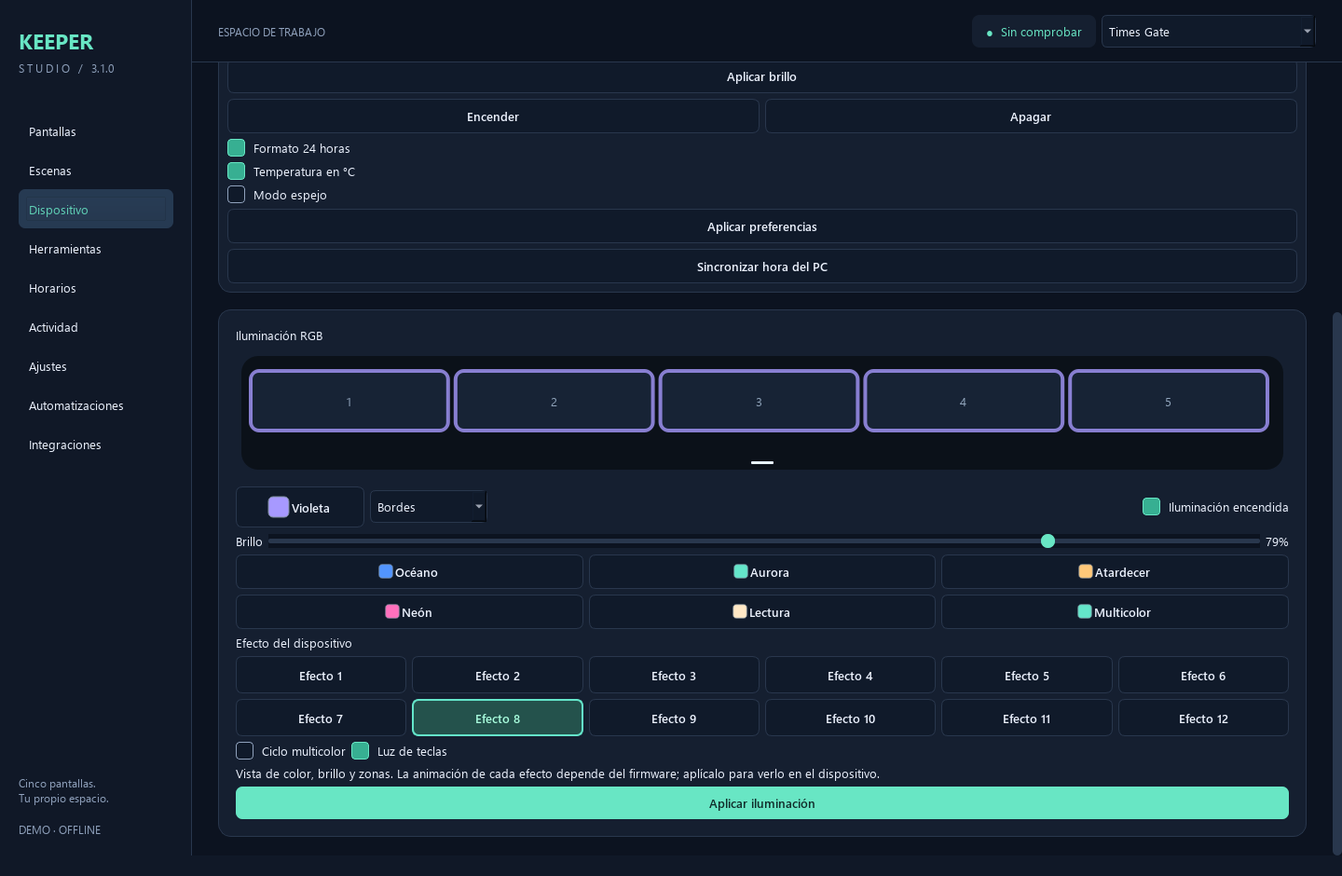
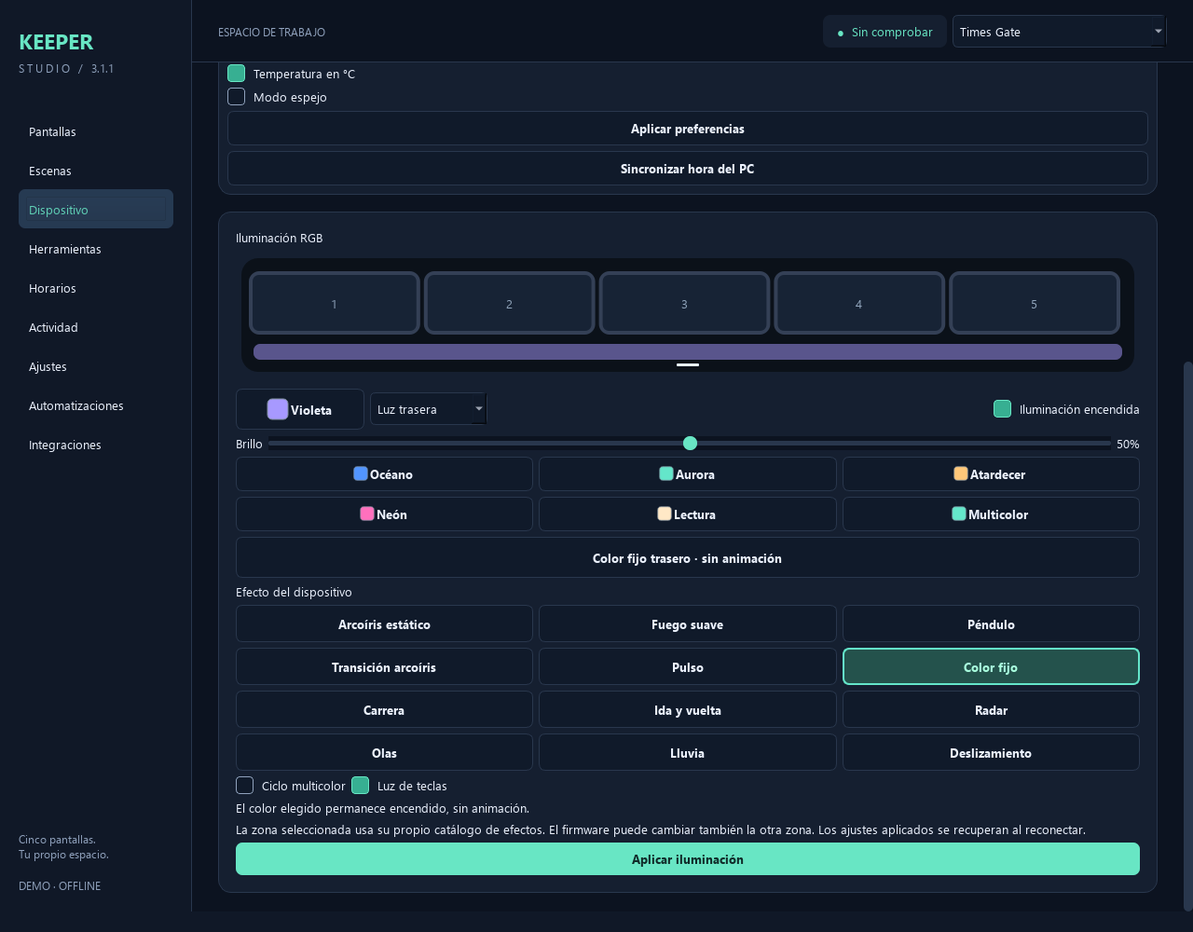
fix: name RGB effects by zone and add solid backlight control in desktop 3.1.1

diff --git a/keeper/lighting.py b/keeper/lighting.py
@@ -1,4 +1,8 @@
-"""RGB settings; the device effect IDs deliberately have no invented names."""
+"""Times Gate RGB settings and zone-specific effect descriptions.
+
+Mapping: averhaegen/hacs-divoom-times-gate-dev, docs/RGB_LIGHTS.md,
+commit e8475a1485e00340646bcd52f39971ad34429990 (on-device observations).
+"""
 import re
 
 PALETTE = [
@@ -14,6 +18,42 @@ PRESETS = [
     ('Atardecer', 'Sunset', '#ffc879', 45, False), ('Neón', 'Neon', '#ff70bd', 80, False),
     ('Lectura', 'Reading', '#ffe8c6', 30, False), ('Multicolor', 'Color cycle', '#64e6ca', 60, True),
 ]
+
+# (Spanish name, English name, Spanish description, English description).
+# Combined lighting uses the edge catalogue; the rear catalogue is different.
+EDGE_EFFECTS = [
+    ('Destellos pastel', 'Pastel sparkle', 'Arcoíris suave que asciende lentamente.', 'Soft rainbow moving slowly upwards.'),
+    ('Péndulo', 'Pendulum', 'Alternancia de tonos rojos y naranjas.', 'Alternating red and orange tones.'),
+    ('Arcoíris', 'Rainbow', 'Varios colores aparecen y se desvanecen.', 'Several colors fade in and out.'),
+    ('Transición de colores', 'Color fade', 'Todas las luces cambian de tono juntas.', 'All lights change color together.'),
+    ('Respiración', 'Breathing', 'El color elegido sube y baja de intensidad.', 'The chosen color gently brightens and dims.'),
+    ('Luz continua', 'Steady light', 'Luz sin animación; el color de los bordes depende del firmware.', 'Steady light; edge color depends on firmware.'),
+    ('Olas', 'Waves', 'Arcoíris alterno entre izquierda y derecha.', 'Rainbow alternating between left and right.'),
+    ('Lluvia multicolor', 'Rainbow rain', 'Destellos de colores que se apagan suavemente.', 'Color flashes that fade away.'),
+    ('Barrido lateral', 'Side sweep', 'El color elegido recorre los bordes de izquierda a derecha.', 'The chosen color sweeps the edges left to right.'),
+    ('Cascada', 'Cascade', 'Ambos lados se iluminan de arriba abajo.', 'Both sides light up from top to bottom.'),
+    ('Cohete', 'Rocket', 'Arcoíris giratorio de izquierda a derecha.', 'Spinning rainbow from left to right.'),
+    ('Rueda de color', 'Color wheel', 'El color elegido avanza de atrás hacia delante.', 'The chosen color travels from back to front.'),
+]
+BACK_EFFECTS = [
+    ('Arcoíris estático', 'Static rainbow', 'Degradado multicolor sin movimiento.', 'A multicolor gradient without motion.'),
+    ('Fuego suave', 'Soft fire', 'Tonos rojos y naranjas alternos.', 'Alternating red and orange tones.'),
+    ('Péndulo', 'Pendulum', 'Luces rojas, amarillas y verdes se encienden lentamente.', 'Red, yellow and green lights turn on slowly.'),
+    ('Transición arcoíris', 'Rainbow fade', 'Colores que se mezclan lentamente.', 'Colors blending slowly together.'),
+    ('Pulso', 'Pulse', 'Toda la luz trasera respira con el color elegido.', 'The whole backlight pulses in the chosen color.'),
+    ('Color fijo', 'Solid color', 'El color elegido permanece encendido, sin animación.', 'The chosen color stays on without animation.'),
+    ('Carrera', 'Chase', 'Puntos más brillantes avanzan de izquierda a derecha.', 'Brighter points chase from left to right.'),
+    ('Ida y vuelta', 'Back and forth', 'El color avanza desde los extremos hacia el centro.', 'Color moves from the edges towards the center.'),
+    ('Radar', 'Radar', 'Barrido de luces de izquierda a derecha y vuelta.', 'Lights sweep left to right and back.'),
+    ('Olas', 'Waves', 'Luces que se acumulan y se desvanecen juntas.', 'Lights build up and fade together.'),
+    ('Lluvia', 'Rain', 'Destellos aleatorios del color elegido.', 'Random flashes of the chosen color.'),
+    ('Deslizamiento', 'Sliding glow', 'El color aparece suavemente y se desplaza.', 'The color fades in gently and slides along.'),
+]
+SOLID_EFFECT = 5
+
+
+def effects_for_zone(zone):
+    return BACK_EFFECTS if zone == 2 else EDGE_EFFECTS
 
 
 def defaults():
@@ -37,19 +77,28 @@ def validate_lighting(settings):
 
 def payload(settings):
     s = validate_lighting(settings)
+    lights = [{'SelectEffect': 0} for _ in range(3)]
+    lights[s['zone']]['SelectEffect'] = s['effect']
     return dict(Command='Channel/SetRGBInfo', Brightness=s['brightness'], Color=s['color'].lower(),
                 OnOff=int(s['on']), KeyOnOff=int(s['keys']), ColorCycle=int(s['cycle']),
-                SelectLightIndex=s['zone'], LightList=[{'SelectEffect': s['effect']}])
+                SelectLightIndex=s['zone'], LightList=lights)
 
 
 def from_payload(p):
     expected = {'Command', 'Brightness', 'Color', 'OnOff', 'KeyOnOff', 'ColorCycle', 'SelectLightIndex', 'LightList'}
     if not isinstance(p, dict) or set(p) != expected or p['Command'] != 'Channel/SetRGBInfo':
         raise ValueError('Comando de iluminación inválido')
-    if (not isinstance(p['LightList'], list) or len(p['LightList']) != 1
-            or not isinstance(p['LightList'][0], dict) or set(p['LightList'][0]) != {'SelectEffect'}):
-        raise ValueError('Selecciona un único efecto RGB')
+    lights = p['LightList']
+    if (not isinstance(lights, list) or len(lights) not in (1, 3)
+            or any(not isinstance(item, dict) or set(item) != {'SelectEffect'}
+                   or type(item['SelectEffect']) is not int or not 0 <= item['SelectEffect'] <= 11 for item in lights)):
+        raise ValueError('Lista de efectos RGB inválida')
+    if type(p['SelectLightIndex']) is not int or not 0 <= p['SelectLightIndex'] <= 2:
+        raise ValueError('Zona RGB inválida')
+    index = p['SelectLightIndex'] if len(lights) == 3 else 0
+    if len(lights) == 3 and any(item['SelectEffect'] != 0 for i, item in enumerate(lights) if i != index):
+        raise ValueError('La configuración admite un único efecto principal')
     if any(type(p[k]) is not int or p[k] not in (0, 1) for k in ['OnOff', 'KeyOnOff', 'ColorCycle']):
         raise ValueError('Interruptor RGB inválido')
-    return validate_lighting(dict(color=p['Color'], brightness=p['Brightness'], effect=p['LightList'][0]['SelectEffect'],
+    return validate_lighting(dict(color=p['Color'], brightness=p['Brightness'], effect=lights[index]['SelectEffect'],
                                   zone=p['SelectLightIndex'], on=bool(p['OnOff']), keys=bool(p['KeyOnOff']), cycle=bool(p['ColorCycle'])))

diff --git a/tests/test_lighting.py b/tests/test_lighting.py
@@ -10,17 +10,35 @@ from keeper.lighting import defaults, payload, from_payload
 
 
 class LightingTests(unittest.TestCase):
-    def test_visual_choices_keep_the_existing_device_payload(self):
+    def test_effect_is_addressed_to_the_selected_zone(self):
         settings = dict(color='#ABCDEF', brightness=73, effect=11, zone=2, on=True, keys=False, cycle=True)
         command = payload(settings)
         self.assertEqual(command, dict(Command='Channel/SetRGBInfo', Color='#abcdef', Brightness=73,
-                                      LightList=[{'SelectEffect': 11}], SelectLightIndex=2, OnOff=1, KeyOnOff=0, ColorCycle=1))
+                                      LightList=[{'SelectEffect': 0}, {'SelectEffect': 0}, {'SelectEffect': 11}], SelectLightIndex=2, OnOff=1, KeyOnOff=0, ColorCycle=1))
         self.assertEqual(from_payload(command), {**settings, 'color': '#abcdef'})
+        for zone in range(3):
+            with self.subTest(zone=zone):
+                command = payload({**settings, 'zone': zone})
+                self.assertEqual([v['SelectEffect'] for v in command['LightList']],
+                                 [11 if i == zone else 0 for i in range(3)])
+                self.assertEqual(from_payload(command)['effect'], 11)
+
+    def test_legacy_one_effect_commands_are_upgraded_before_sending(self):
+        with tempfile.TemporaryDirectory() as temp:
+            store = ConfigStore(Path(temp), migrate=False)
+            engine = Engine(store, demo=True)
+            settings = {**defaults(), 'zone': 2, 'effect': 5}
+            legacy = {**payload(settings), 'LightList': [{'SelectEffect': 5}]}
+            with patch.object(engine, 'command', return_value={'error_code': 0}) as send:
+                engine.process('command', store.get_device()['id'], {'payload': legacy})
+            self.assertEqual(send.call_args.args[1], payload(settings))
 
     def test_invalid_lighting_cannot_reach_the_device(self):
         for key, bad_values in {'Color': ['red', '#fff', None], 'Brightness': [-1, 101, True],
                                 'SelectLightIndex': [3, -1], 'OnOff': [True, 2],
-                                'LightList': [[], [None], [8], [{'SelectEffect': 12}], [{'SelectEffect': 0}, {'SelectEffect': 1}]]}.items():
+                                'LightList': [[], [None], [8], [{'SelectEffect': 12}], [{'SelectEffect': 0}, {'SelectEffect': 1}],
+                                              [{'SelectEffect': 0}, {'SelectEffect': True}, {'SelectEffect': 0}],
+                                              [{'SelectEffect': 0}, {'SelectEffect': 1}, {'SelectEffect': 0}]]}.items():
             for value in bad_values:
                 with self.subTest(key=key, value=value), self.assertRaises(ValueError):
                     from_payload({**payload(defaults()), key: value})
@@ -45,3 +63,32 @@ class LightingTests(unittest.TestCase):
             self.assertEqual(saved['playlists'], before['playlists'])
             self.assertNotIn(d['id'], engine.paused)
             self.assertEqual(ConfigStore(Path(temp), migrate=False).get_device()['lighting'], saved['lighting'])
+
+    def test_lighting_restores_once_on_start_and_reconnect_without_auto_screens(self):
+        with tempfile.TemporaryDirectory() as temp:
+            store = ConfigStore(Path(temp), migrate=False)
+            d = store.get_device()
+            d.update(ip='192.168.1.10', enabled=False, lighting={**defaults(), 'effect': 5, 'zone': 2})
+            store.update_device(d)
+            engine = Engine(store, demo=True)
+            with patch.object(engine, 'command', return_value={'error_code': 0}) as send:
+                engine.tick()
+                engine.health(d)
+                self.assertEqual([c.args[1] for c in send.call_args_list if c.args[1]['Command'] == 'Channel/SetRGBInfo'], [payload(d['lighting'])])
+                with patch.object(engine, 'command', side_effect=RuntimeError('offline')):
+                    engine.health(d)
+                engine.health(d)
+                self.assertEqual(sum(c.args[1]['Command'] == 'Channel/SetRGBInfo' for c in send.call_args_list), 2)
+                self.assertFalse(any(c.args[1]['Command'].startswith('Draw/') for c in send.call_args_list))
+            self.assertEqual(store.get_device(), d)
+
+    def test_rejected_restore_does_not_mark_the_display_offline(self):
+        with tempfile.TemporaryDirectory() as temp:
+            store = ConfigStore(Path(temp), migrate=False)
+            d = store.get_device()
+            d['lighting'] = defaults()
+            engine = Engine(store, demo=True)
+            with patch.object(engine, 'command', side_effect=[{'error_code': 0}, RuntimeError('RGB rejected')]):
+                engine.health(d)
+            self.assertTrue(engine.online[d['id']])
+            self.assertNotIn((d['id'], d['ip']), engine.lighting_restored)

diff --git a/keeper/color_ui.py b/keeper/color_ui.py
@@ -4,7 +4,7 @@ from PySide6.QtCore import Qt, Signal, QRectF, QSize
 from PySide6.QtGui import QColor, QPainter, QPen, QLinearGradient, QPixmap, QIcon
 from PySide6.QtWidgets import (QWidget, QPushButton, QDialog, QDialogButtonBox, QLabel,
     QVBoxLayout, QHBoxLayout, QGridLayout, QSlider, QComboBox, QCheckBox, QButtonGroup)
-from .lighting import PALETTE, PRESETS, defaults
+from .lighting import PALETTE, PRESETS, SOLID_EFFECT, defaults, effects_for_zone
 
 
 def color_name(color, t):
@@ -160,17 +160,24 @@ class LightingPanel(QWidget):
         presets = QGridLayout()
         for i, (es, en, color, brightness, cycle) in enumerate(PRESETS):
             b = QPushButton(t(es, en)); b.setIcon(swatch_icon(QColor(color))); b.clicked.connect(lambda checked=False, n=i: self.preset(n)); presets.addWidget(b, i//3, i%3)
-        layout.addLayout(presets); layout.addWidget(QLabel(t('Efecto del dispositivo', 'Device effect')))
+        layout.addLayout(presets)
+        self.solid = QPushButton(t('Color fijo trasero · sin animación', 'Solid backlight color · no animation'))
+        self.solid.setCheckable(True); self.solid.setMinimumHeight(44)
+        self.solid.clicked.connect(self.select_solid); layout.addWidget(self.solid)
+        layout.addWidget(QLabel(t('Efecto del dispositivo', 'Device effect')))
         grid = QGridLayout()
         for i in range(12):
-            b = QPushButton(t(f'Efecto {i+1}', f'Effect {i+1}')); b.setCheckable(True); b.setMinimumHeight(40); self.effects.addButton(b, i); grid.addWidget(b, i//6, i%6)
+            b = QPushButton(); b.setCheckable(True); b.setMinimumHeight(40); self.effects.addButton(b, i); grid.addWidget(b, i//3, i%3)
             b.setStyleSheet('QPushButton:checked {background:#24524c;color:#aaffdf;border:2px solid #64e6ca;}')
         self.effects.button(0).setChecked(True); layout.addLayout(grid)
         row = QHBoxLayout(); row.addWidget(self.cycle); row.addWidget(self.keys); row.addStretch(); layout.addLayout(row)
-        note = QLabel(t('Vista de color, brillo y zonas. La animación de cada efecto depende del firmware; aplícalo para verlo en el dispositivo.', 'Color, brightness and zone preview. Each effect animation depends on firmware; apply it to see it on the device.')); note.setWordWrap(True); layout.addWidget(note)
+        self.effect_description = QLabel(); self.effect_description.setWordWrap(True); layout.addWidget(self.effect_description)
+        note = QLabel(t('La zona seleccionada usa su propio catálogo de efectos. El firmware puede cambiar también la otra zona. Los ajustes aplicados se recuperan al reconectar.', 'The selected zone has its own effect catalogue. Firmware may also change the other zone. Applied settings are restored on reconnection.')); note.setWordWrap(True); layout.addWidget(note)
         apply = QPushButton(t('Aplicar iluminación', 'Apply lighting')); apply.setObjectName('primary'); apply.clicked.connect(self.applyRequested); layout.addWidget(apply)
         self.color.textChanged.connect(self.refresh); self.brightness.valueChanged.connect(self.refresh); self.zone.currentIndexChanged.connect(self.refresh)
+        self.effects.idClicked.connect(self.refresh)
         for b in [self.on, self.cycle, self.keys]: b.toggled.connect(self.refresh)
+        self.refresh()
 
     def settings(self):
         return dict(color=self.color.text(), brightness=self.brightness.value(), effect=max(0, self.effects.checkedId()), zone=self.zone.currentIndex(), on=self.on.isChecked(), cycle=self.cycle.isChecked(), keys=self.keys.isChecked())
@@ -182,5 +189,21 @@ class LightingPanel(QWidget):
     def preset(self, index):
         _, _, color, brightness, cycle = PRESETS[index]; self.color.setText(color); self.brightness.setValue(brightness); self.cycle.setChecked(cycle); self.on.setChecked(True)
 
+    def select_solid(self):
+        # The rear catalogue documents a custom-color solid mode. The edge
+        # steady mode can ignore Color, so do not promise the same behaviour.
+        self.zone.setCurrentIndex(2)
+        self.effects.button(SOLID_EFFECT).setChecked(True)
+        self.cycle.setChecked(False)
+        self.on.setChecked(True)
+        self.refresh()
+
     def refresh(self, *_):
+        catalogue = effects_for_zone(self.zone.currentIndex())
+        for i, (es, en, detail_es, detail_en) in enumerate(catalogue):
+            self.effects.button(i).setText(self.t(es, en))
+            self.effects.button(i).setToolTip(self.t(detail_es, detail_en))
+        selected = max(0, self.effects.checkedId())
+        self.effect_description.setText(self.t(*catalogue[selected][2:]))
+        self.solid.setChecked(self.zone.currentIndex() == 2 and selected == SOLID_EFFECT and not self.cycle.isChecked())
         self.percent.setText(f'{self.brightness.value()}%'); self.preview.update()

diff --git a/keeper/engine.py b/keeper/engine.py
@@ -42,6 +42,7 @@ class Engine(threading.Thread):
         self.clients = {}
         self.last_health = {}
         self.online = {}
+        self.lighting_restored = set()
         self.paused = {d["id"] for d in store.snapshot()["devices"] if d.get("suspended")}
         self.power_off = {d["id"] for d in store.snapshot()["devices"] if d.get("screens_off")}
         self.overrides = {}
@@ -232,6 +233,7 @@ class Engine(threading.Thread):
 
     def process(self, action, device_id, args):
         if action == "reset_runtime":
+            self.lighting_restored.clear()
             self.hashes.clear()
             self.last_sent.clear()
             self.last_attempt.clear()
@@ -273,11 +275,13 @@ class Engine(threading.Thread):
         elif action == "command":
             payload = args["payload"]
             if payload.get('Command') == 'Channel/SetRGBInfo':
-                from .lighting import from_payload
+                from .lighting import from_payload, payload as lighting_payload
                 lighting = from_payload(payload)
+                payload = lighting_payload(lighting)
             result = self.command(d, payload)
             if payload.get('Command') == 'Channel/SetRGBInfo':
                 self.set_state(d['id'], lighting=lighting)
+                self.lighting_restored.add((d['id'], d['ip']))
             if args.get("pause"):
                 self.overrides = {key: value for key, value in self.overrides.items() if key[0] != d["id"]}
                 self.paused.add(d["id"])
@@ -336,13 +340,26 @@ class Engine(threading.Thread):
         try:
             body = self.command(d, {"Command": "Channel/GetAllConf"})
             if self.online.get(d["id"]) is False:
+                self.lighting_restored.discard((d['id'], d['ip']))
                 self.invalidate(d["id"])
                 self.log(f"{d['name']} · conexión recuperada; se restaurará su contenido")
             self.online[d["id"]] = True
             self.emit("health", device_id=d["id"], online=True, body=body)
         except Exception as error:
             self.online[d["id"]] = False
+            self.lighting_restored.discard((d['id'], d['ip']))
             self.emit("health", device_id=d["id"], online=False, body={"error": str(error)})
+            return
+        key = (d['id'], d['ip'])
+        if d.get('lighting') and key not in self.lighting_restored:
+            from .lighting import payload
+            try:
+                self.command(d, payload(d['lighting']))
+                self.lighting_restored.add(key)
+                self.log(f"{d['name']} · iluminación recuperada")
+            except Exception as error:
+                # An RGB failure must not suspend image/GIF uploads.
+                self.log(f"{d['name']} · no se pudo recuperar la iluminación: {error}", 'warning')
 
     def tick(self):
         data = self.store.snapshot()
@@ -370,10 +387,12 @@ class Engine(threading.Thread):
                             self.send_panel(d, key[1], True)
                         except Exception:
                             self.overrides[key] = time.monotonic() + 5
-            if not d.get("enabled") or not d.get("ip"):
+            if not d.get("ip"):
                 continue
-            if now - self.last_health.get(device_id, -1e12) > 30:
+            if (d.get('enabled') or d.get('lighting')) and now - self.last_health.get(device_id, -1e12) > 30:
                 self.health(d)
+            if not d.get('enabled'):
+                continue
             if self.online.get(device_id) is False:
                 continue
             for rule in data["schedules"]:

diff --git a/tests/test_ui.py b/tests/test_ui.py
@@ -95,6 +95,28 @@ class UiTests(unittest.TestCase):
         self.assertEqual(saved['screens'][0]['text'], 'original')
         self.assertNotIn(saved['id'], self.engine.paused)
 
+    def test_solid_color_disables_cycle_and_names_follow_the_zone(self):
+        self.drain()
+        panel = self.window.lighting
+        self.assertEqual(panel.effects.button(4).text(), 'Respiración')
+        panel.zone.setCurrentIndex(2)
+        self.assertEqual(panel.effects.button(4).text(), 'Pulso')
+        self.assertEqual(panel.effects.button(5).text(), 'Color fijo')
+        panel.color.setText('#a799ff')
+        panel.effects.button(7).click()
+        panel.cycle.setChecked(True)
+        panel.on.setChecked(False)
+        panel.zone.setCurrentIndex(0)
+        panel.solid.click()
+        self.assertEqual(panel.settings(), dict(color='#a799ff', brightness=50, zone=2, effect=5, on=True, cycle=False, keys=True))
+        self.assertTrue(self.engine.jobs.empty())
+        panel.applyRequested.emit()
+        self.drain()
+        self.window.load_device()
+        self.assertTrue(panel.solid.isChecked())
+        self.assertEqual(self.store.get_device()['lighting']['effect'], 5)
+        self.assertEqual(self.store.get_device()['screens'][0]['text'], 'original')
+
     def test_crop_position_and_zoom_apply_the_displayed_pixels(self):
         from keeper.dialogs import PanoramaDialog
         from PIL import ImageDraw

diff --git a/keeper/__init__.py b/keeper/__init__.py
@@ -1,3 +1,3 @@
 """Divoom Keeper Studio — desktop controller for Times Gate."""
 
-__version__ = "3.1.0"
+__version__ = "3.1.1"

diff --git a/docs/RGB-3.1.1.md b/docs/RGB-3.1.1.md
@@ -1,0 +1,24 @@
+# RGB en escritorio · 3.1.1
+
+En **Dispositivo → Iluminación RGB**, las tarjetas tienen nombres descriptivos y una explicación del movimiento. Cambian al seleccionar **Bordes / Todas las zonas** o **Luz trasera**, porque el Times Gate tiene dos catálogos diferentes.
+
+Para un color sólido, pulsa **Color fijo trasero · sin animación**, elige el color y el brillo y pulsa **Aplicar iluminación**. El acceso directo selecciona la luz trasera, el efecto continuo y desactiva el ciclo multicolor. La app guarda el ajuste solo si el dispositivo lo acepta y lo recupera al arrancar o reconectar, incluso si la actualización de las pantallas está desactivada. No reinicia los efectos en cada comprobación de conexión.
+
+En **Bordes** o **Todas las zonas** existe **Luz continua**, sin animación. La documentación comunitaria indica que el color de ese modo puede estar fijado por el firmware; no se presenta como color personalizado garantizado para los bordes. Un cambio RGB puede afectar a ambas zonas, y el brillo y el encendido son globales.
+
+![RGB de escritorio con nombres y acceso al color fijo](screenshots/rgb-desktop.png)
+
+## Corrección del envío
+
+`Channel/SetRGBInfo` necesita tres entradas en `LightList`: el efecto principal ocupa la posición indicada por `SelectLightIndex`. Antes se enviaba una sola entrada, lo que no seleccionaba correctamente los efectos traseros. Los comandos antiguos de una entrada siguen siendo aceptados por el motor y se convierten al formato correcto antes del envío.
+
+La tabla y las descripciones proceden de las [pruebas documentadas de RGB_LIGHTS.md](https://github.com/averhaegen/hacs-divoom-times-gate-dev/blob/e8475a1485e00340646bcd52f39971ad34429990/docs/RGB_LIGHTS.md). Los nombres en español describen su comportamiento; no son nombres oficiales de Divoom. La vista previa representa color y zona principal, no simula los efectos ni garantiza el estado de la zona secundaria.
+
+## Comprobaciones
+
+- 125 pruebas Python aprobadas; incluyen direccionamiento por zona, compatibilidad de comandos anteriores, persistencia tras aceptación y recuperación RGB sin detener las imágenes/GIF si falla la iluminación.
+- Interfaz comprobada en demo y compilación Windows preparada con PyInstaller.
+- El Times Gate aceptó una prueba de luz continua violeta para ambas zonas. La apariencia física está pendiente de confirmación del usuario; una respuesta correcta de la API no demuestra el color visible.
[1 lines of base64/hex data omitted]
+
+La compilación 3.1.0 y la copia del código anterior permanecen en las carpetas locales `dist/3.1.0/` y `backups/`. La 3.1.1 se genera en `dist/3.1.1/`. Los cambios visuales de esta revisión corresponden al escritorio; el portal y las apps móviles conservan su interfaz anterior.

diff --git a/README.md b/README.md
@@ -4,6 +4,8 @@ Convierte las cinco pantallas de tu **Divoom Times Gate** en un escritorio de im
 
 **Windows · Linux · Portal web / Docker · Android · iOS**
 
+**Escritorio 3.1.1:** efectos RGB con nombres por zona, acceso a color fijo trasero y recuperación de la iluminación al reconectar. [Uso y detalles de la corrección](docs/RGB-3.1.1.md).
+
 [Primeros pasos](#primeros-pasos) · [Instalación por plataforma](docs/MULTIPLATAFORMA.md) · [Galería de capturas](docs/CAPTURAS.md) · [Historial de cambios](CHANGELOG.md) · [Versión original 0.1.3](https://github.com/raishack/divoom-times-gate-controller/releases/tag/v0.1.3)
 
 ![Keeper Studio: cinco pantallas con reloj, monitor PC, texto, tiempo y red](docs/screenshots/screens.png)
@@ -42,7 +44,7 @@ Las funciones continuas necesitan que el motor esté ejecutándose. En escritori
 
 ![Panel RGB del portal web: vista previa, paleta, ambientes y tarjetas de efectos](docs/screenshots/rgb-web.png)
 
-Los efectos conservan el orden del dispositivo como **Efecto 1–12**. Sus animaciones dependen del firmware y se comprueban en el Times Gate; la vista previa no intenta reproducir una animación no verificada. [Guía de colores y validación de 3.1](docs/COLORES-3.1.0.md).
+En escritorio 3.1.1 los efectos tienen nombres descriptivos según la zona y un acceso directo al color fijo trasero. El portal y las apps móviles conservan **Efecto 1–12**. La vista previa representa el color; las animaciones reales dependen del firmware. [Corrección RGB de escritorio](docs/RGB-3.1.1.md) · [Guía de colores de 3.1](docs/COLORES-3.1.0.md).
 
 ## Panorámicas con encuadre y animación
 

diff --git a/CHANGELOG.md b/CHANGELOG.md
@@ -2,6 +2,14 @@
 
 Las versiones 2.x y 3.0 se desarrollaron y comprobaron localmente. Esta actualización publica su evolución junto con la 3.1; no implica que existan releases binarias separadas para cada versión.
 
+## 3.1.1 · Corrección RGB de escritorio
+
+- Efectos con nombres y descripciones específicos para bordes y luz trasera.
+- Acceso directo a color fijo trasero sin ciclo multicolor y modo de luz continua en los bordes, con límites de color del firmware explicados.
+- Corregido el direccionamiento de efectos mediante las tres entradas de `LightList`.
+- Recuperación del último ajuste RGB aceptado al iniciar o reconectar, sin detener imágenes/GIF si falla el comando RGB.
+- 125 pruebas Python. [Uso y validación](docs/RGB-3.1.1.md).
+
 ## 3.1.0 · Colores y RGB visuales
 
 - Selector de tono y saturación/luminosidad, paleta de 16 muestras y ocho colores recientes por sesión.

diff --git a/docs/CAPTURAS.md b/docs/CAPTURAS.md
@@ -12,7 +12,7 @@ Reloj, monitor del PC, texto, tiempo y tráfico de red, con contenido y color in
 
 ## RGB en escritorio
 
-Vista previa, brillo, seis ambientes y doce tarjetas para el efecto del dispositivo.
+Escritorio 3.1.1: vista previa, brillo, seis ambientes, efectos con nombres por zona y acceso directo al color fijo trasero.
 
 ![Iluminación RGB](screenshots/rgb-desktop.png)
 
